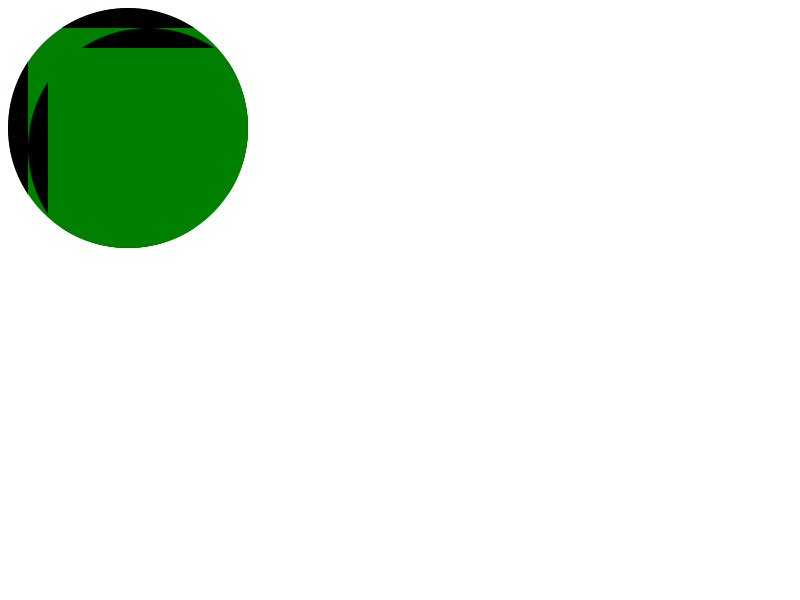
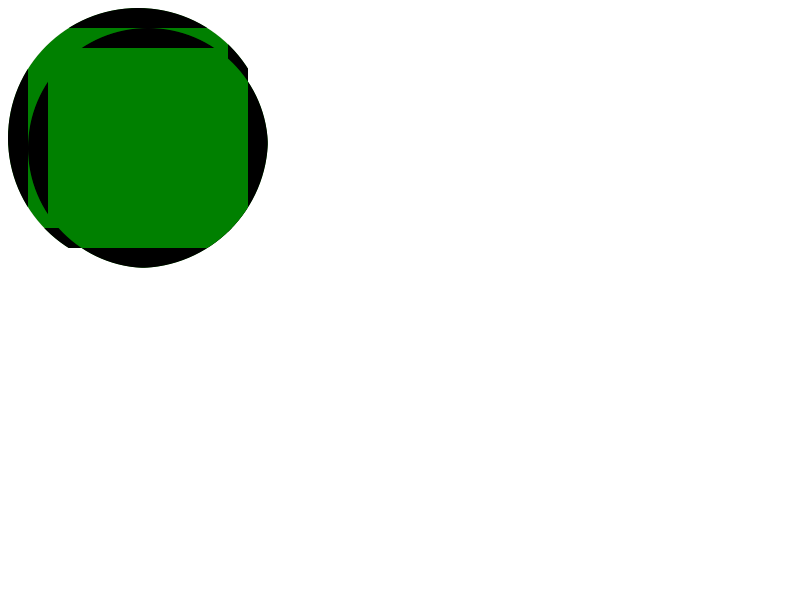
-webkit-clip-path is applied on elements that are not descendant of the container https://bugs.webkit.org/show_bug.cgi?id=97217
Reviewed by Dirk Schulze.

Source/WebCore:

The clip-path was set on the GraphicsContext, but was never restored, thus making all the layers
rendered in the same "group" of save/restore state use the same clip-path.

Test: css3/masking/clip-path-restore.html

* css/StyleResolver.cpp:
(WebCore::StyleResolver::collectMatchingRulesForList):
clip-path property should create a stacking-context, otherwise the RenderLayers will not be nested,
meaning that the clip-path of the parent is not going to apply correctly.

* rendering/RenderLayer.cpp:
(WebCore::RenderLayer::paintLayerContents):

LayoutTests:

Added a test to check that the clip-path is removed from the GraphicsContext in the second paint call.
clip-path-circle-relative-overflow had incorrect result before, so I've udpated the results on Mac
and added test expectations for the others.

* css3/masking/clip-path-restore-expected.html: Added.
* css3/masking/clip-path-restore.html: Added.
* platform/chromium/TestExpectations:
* platform/efl/TestExpectations:
* platform/gtk/TestExpectations:
* platform/mac/css3/masking/clip-path-circle-relative-overflow-expected.png:
* platform/qt/TestExpectations:
* platform/win/Skipped:

git-svn-id: http://svn.webkit.org/repository/webkit/trunk/LayoutTests@129215 268f45cc-cd09-0410-ab3c-d52691b4dbfc

diff --git a/css3/masking/clip-path-restore.html b/css3/masking/clip-path-restore.html
@@ -1,0 +1,32 @@
+<!DOCTYPE html>
+<html lang="en">
+<head>
+<style>
+body { 
+	margin: 0;
+}
+.circle-clip-path {
+    width: 200px;
+    height: 200px;
+    background-color: green;
+    -webkit-clip-path: circle(100px, 100px, 100px);
+}
+.red-marker {
+	/* We position a red dot behind, so that it is obvious when the test is failing. */
+	position: absolute;
+	top: 250px;
+	left: 50px;
+	width: 100px;
+	height: 100px;
+	background-color: red;
+	border-radius: 50px;
+}
+</style>
+</head>
+<body>
+<!-- Testing that the clip-path of the first element doesn't clip the second element. You should see two green circles and no red. -->
+<div class="red-marker"></div>
+<div class="circle-clip-path"></div>
+<div class="circle-clip-path"></div>
+</body>
+</html>

diff --git a/css3/masking/clip-path-restore-expected.html b/css3/masking/clip-path-restore-expected.html
@@ -1,0 +1,20 @@
+<!DOCTYPE html>
+<html lang="en">
+<head>
+<style>
+body {
+	margin: 0;
+}
+div {
+    width: 200px;
+    height: 200px;
+    background-color: green;
+    border-radius: 100px;
+}
+</style>
+</head>
+<body>
+<div></div>
+<div></div>
+</body>
+</html>
